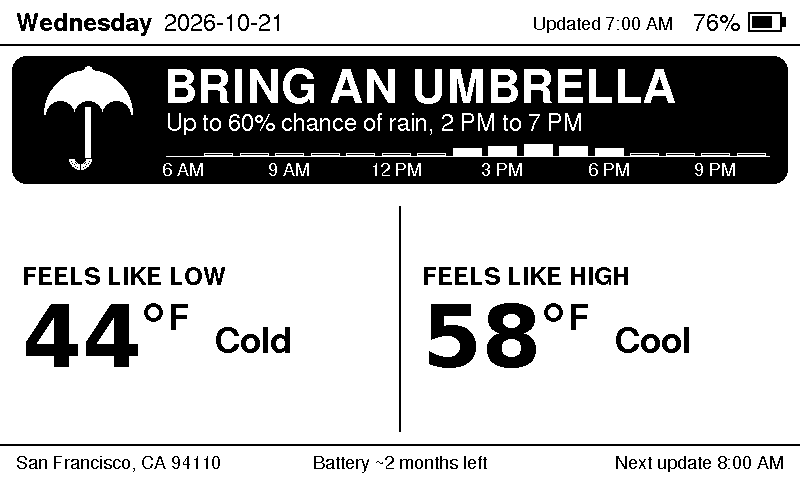
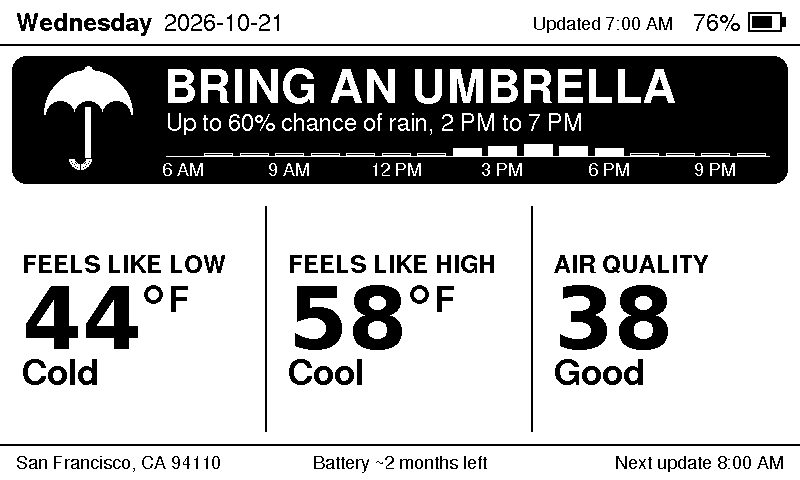
Show air quality as a third big-number panel next to the feels-like temps

Changed region(s): [[0.25, 0.5312, 0.9062, 0.8125], [0.0312, 0.5312, 0.2812, 0.8125]]

diff --git a/lib/doorcore/src/screen.cpp b/lib/doorcore/src/screen.cpp
@@ -297,9 +297,6 @@ int conditionItems(const WeatherScreen& s, char items[3][48]) {
       snprintf(items[n++], 48, "Windy: gusts %d mph", static_cast<int>(lroundf(s.gustMph)));
     }
   }
-  if (s.aqi >= kAqiAlert) {
-    snprintf(items[n++], 48, "Air quality: %s (%d)", aqiCategory(s.aqi), s.aqi);
-  }
   return n;
 }
 
@@ -325,41 +322,42 @@ void drawConditions(Adafruit_GFX& g, char items[3][48], int n, int top, int h) {
   }
 }
 
-void drawTemperature(Adafruit_GFX& g, int x, int baseline, float value, char unit,
-                     bool small = false) {
-  char num[8];
-  snprintf(num, sizeof num, "%d", static_cast<int>(lroundf(value)));
-  const bool fits = !small && strlen(num) <= 2;
-  const GFXfont* f = fits ? kHuge : kHeadline;
+// Big number (kHuge, or kHeadline when small) with an optional degree + unit.
+void drawBigNumber(Adafruit_GFX& g, int x, int baseline, const char* num, char unit, bool small) {
+  const GFXfont* f = small ? kHeadline : kHuge;
   text(g, f, x, baseline, num, kBlack);
-  int w = textWidth(f, num);
-  int capH = fits ? 63 : 34;
-  int r = fits ? 9 : 6;
-  drawDegree(g, x + w + r + 2, baseline - capH + r, r, fits ? 4 : 3, kBlack, kWhite);
+  if (!unit) return;
+  const int w = textWidth(f, num);
+  const int capH = small ? 34 : 63;
+  const int r = small ? 6 : 9;
+  drawDegree(g, x + w + r + 2, baseline - capH + r, r, small ? 3 : 4, kBlack, kWhite);
   char u[2] = {unit, 0};
-  text(g, fits ? kTitle : kBodyBold, x + w + 2 * r + 8, baseline - capH + 26, u, kBlack);
+  text(g, small ? kBodyBold : kTitle, x + w + 2 * r + 8, baseline - capH + 26, u, kBlack);
 }
 
-void drawAttirePanel(Adafruit_GFX& g, int x0, int top, int bottom, const char* label,
-                     float temp, char unit, Tier tier) {
+// One of the three equal panels: label, big number, caption underneath.
+void drawStatPanel(Adafruit_GFX& g, int x0, int w, int top, int bottom, const char* label,
+                   const char* num, char unit, const char* caption) {
   const int h = bottom - top;
   const int tx = x0 + 22;
-  const int rx = x0 + 215;
-  if (h >= 130) {
-    const int y = top + (h - 130) / 2;  // centre the ~130 px of content
-    text(g, kBodyBold, tx, y + 30, label, kBlack);
-    drawTemperature(g, tx, y + 112, temp, unit);
-    text(g, kTitle, rx, y + 98, tierName(tier), kBlack);
-  } else if (h >= 100) {
-    const int y = top + (h - 100) / 2;
-    text(g, kBodyBold, tx, y + 24, label, kBlack);
-    drawTemperature(g, tx, y + 94, temp, unit);
-    text(g, kTitle, rx, y + 80, tierName(tier), kBlack);
+  const int maxW = w - 30;
+  if (h >= 150) {
+    const int y = top + (h - 150) / 2;  // centre the ~150 px of content
+    text(g, kBodyBold, tx, y + 28, label, kBlack);
+    drawBigNumber(g, tx, y + 104, num, unit, false);
+    const GFXfont* f = textWidth(kTitle, caption) <= maxW ? kTitle : kBodyBold;
+    textWrapped(g, f, tx, y + 140, maxW, 26, caption, kBlack);
+  } else if (h >= 112) {
+    const int y = top + (h - 112) / 2;
+    text(g, kBodyBold, tx, y + 22, label, kBlack);
+    drawBigNumber(g, tx, y + 86, num, unit, false);
+    text(g, textWidth(kBodyBold, caption) <= maxW ? kBodyBold : kSmallBold, tx, y + 108, caption,
+         kBlack);
   } else {
-    const int y = top + std::max(0, (h - 72) / 2);
-    text(g, kSmallBold, tx, y + 18, label, kBlack);
-    drawTemperature(g, tx, y + 64, temp, unit, true);
-    text(g, kBodyBold, rx, y + 58, tierName(tier), kBlack);
+    const int y = top + std::max(0, (h - 80) / 2);
+    text(g, kSmallBold, tx, y + 15, label, kBlack);
+    drawBigNumber(g, tx, y + 56, num, unit, true);
+    text(g, kSmallBold, tx, y + 75, caption, kBlack);
   }
 }
 
@@ -449,10 +447,10 @@ void drawWeatherScreen(Adafruit_GFX& g, const WeatherScreen& s) {
     return bottom - used;
   };
   // Shrink the rain banner (and reminders) when everything wouldn't fit.
-  const bool compact = panelRoom(rainHeight(s, false)) < 130;
+  const bool compact = panelRoom(rainHeight(s, false)) < 150;
   if (compact && remindersH) remindersH = 48;
   // On extremely busy days the UV/wind/AQI notes give way to the temperatures.
-  if (compact && chipsH && panelRoom(rainHeight(s, true)) < 72) {
+  if (compact && chipsH && panelRoom(rainHeight(s, true)) < 80) {
     chipsH = 0;
     nItems = 0;
   }
@@ -472,10 +470,20 @@ void drawWeatherScreen(Adafruit_GFX& g, const WeatherScreen& s) {
     drawReminderStrip(g, top, remindersH, s.reminders, s.reminderCount);
     top += remindersH + 6;
   }
-  drawAttirePanel(g, 0, top, bottom, "FEELS LIKE LOW", s.feelsLow, s.unit, s.lowTier);
-  g.fillRect(kScreenW / 2 - 1, top + 12, 2, bottom - top - 24, kBlack);
-  drawAttirePanel(g, kScreenW / 2, top, bottom, "FEELS LIKE HIGH", s.feelsHigh, s.unit,
-                  s.highTier);
+  constexpr int kPanelW = kScreenW / 3;
+  char lo[8], hi[8], aqi[8];
+  snprintf(lo, sizeof lo, "%d", static_cast<int>(lroundf(s.feelsLow)));
+  snprintf(hi, sizeof hi, "%d", static_cast<int>(lroundf(s.feelsHigh)));
+  snprintf(aqi, sizeof aqi, "%s", "--");
+  if (s.aqi >= 0) snprintf(aqi, sizeof aqi, "%d", s.aqi);
+  drawStatPanel(g, 0, kPanelW, top, bottom, "FEELS LIKE LOW", lo, s.unit, tierName(s.lowTier));
+  drawStatPanel(g, kPanelW, kPanelW, top, bottom, "FEELS LIKE HIGH", hi, s.unit,
+                tierName(s.highTier));
+  drawStatPanel(g, 2 * kPanelW, kScreenW - 2 * kPanelW, top, bottom, "AIR QUALITY", aqi, 0,
+                s.aqi >= 0 ? aqiCategory(s.aqi) : "No data");
+  for (int k = 1; k < 3; ++k) {
+    g.fillRect(k * kPanelW - 1, top + 12, 2, bottom - top - 24, kBlack);
+  }
 
   if (low) {
     drawLowBatteryBanner(g, bottom, s.batteryPercent, s.batteryDaysLeft);

diff --git a/lib/doorcore/src/screen.h b/lib/doorcore/src/screen.h
@@ -38,7 +38,7 @@ struct WeatherScreen {
   int alertCount;
   float uvMax;            // < 0 if unknown
   float gustMph;          // < 0 if unknown
-  int aqi;                // US AQI, < 0 if unknown
+  int aqi;                // highest US AQI for the rest of the day, < 0 if unknown
   int batteryDaysLeft;    // <= 0 if unknown
 };
 

diff --git a/lib/doorcore/src/extras.h b/lib/doorcore/src/extras.h
@@ -11,7 +11,6 @@ namespace door {
 
 constexpr float kSunscreenUvIndex = 6;  // "high" on the WHO scale
 constexpr int kWindyGustMph = 30;
-constexpr int kAqiAlert = 101;  // above "Moderate"
 
 void buildAirQualityUrl(char* buf, size_t len, float lat, float lon);
 

diff --git a/host/preview.cpp b/host/preview.cpp
@@ -34,7 +34,7 @@ static WeatherScreen base() {
   s.batteryDaysLeft = 63;
   s.uvMax = -1;
   s.gustMph = -1;
-  s.aqi = -1;
+  s.aqi = 38;
   return s;
 }
 

diff --git a/README.md b/README.md
@@ -5,8 +5,9 @@ A battery-powered 7.5" e-ink display for the front door. Each morning it shows:
 - whether it's likely to rain today (any hour ≥ 10%) with a big **BRING AN UMBRELLA** banner and an
   hour-by-hour bar chart (6 AM–10 PM), so you can see if it'll rain on the way home,
 - active National Weather Service alerts (winter storm, heat advisory, high wind, …) as a black strip on top,
-- "Wear sunscreen" (UV ≥ 6), "Windy" (gusts ≥ 30 mph) and air-quality (US AQI > 100, e.g. wildfire smoke) notes,
+- "Wear sunscreen" (UV ≥ 6) and "Windy" (gusts ≥ 30 mph) notes,
 - today's "feels like" low and high, each labelled with a tier (Freezing, Cold, Chilly, Cool, Mild, Warm, Hot),
+  next to the day's air quality (highest US AQI for the rest of the day, e.g. "162 Unhealthy" on smoke days),
 - the weekday and date (`YYYY-MM-DD`), update time and battery level, so you can tell it refreshed today,
 - an estimate of the days/weeks of battery left, based on how fast it has drained since the last charge.
 
@@ -22,7 +23,7 @@ Below 5% battery a black recharge banner appears at the bottom; at 1% the entire
 |---|---|---|
 | ![](docs/img/setup.png) | ![](docs/img/offline.png) | ![](docs/img/evening_setup.png) |
 
-| Weather alert + wind | Several alerts | Sunscreen + air quality | Everything at once (compact layout) |
+| Weather alert + wind | Several alerts | Sunscreen + bad air quality | Everything at once (compact layout) |
 |---|---|---|---|
 | ![](docs/img/alert.png) | ![](docs/img/alerts_multiple.png) | ![](docs/img/air_quality.png) | ![](docs/img/everything_low_battery.png) |
 
